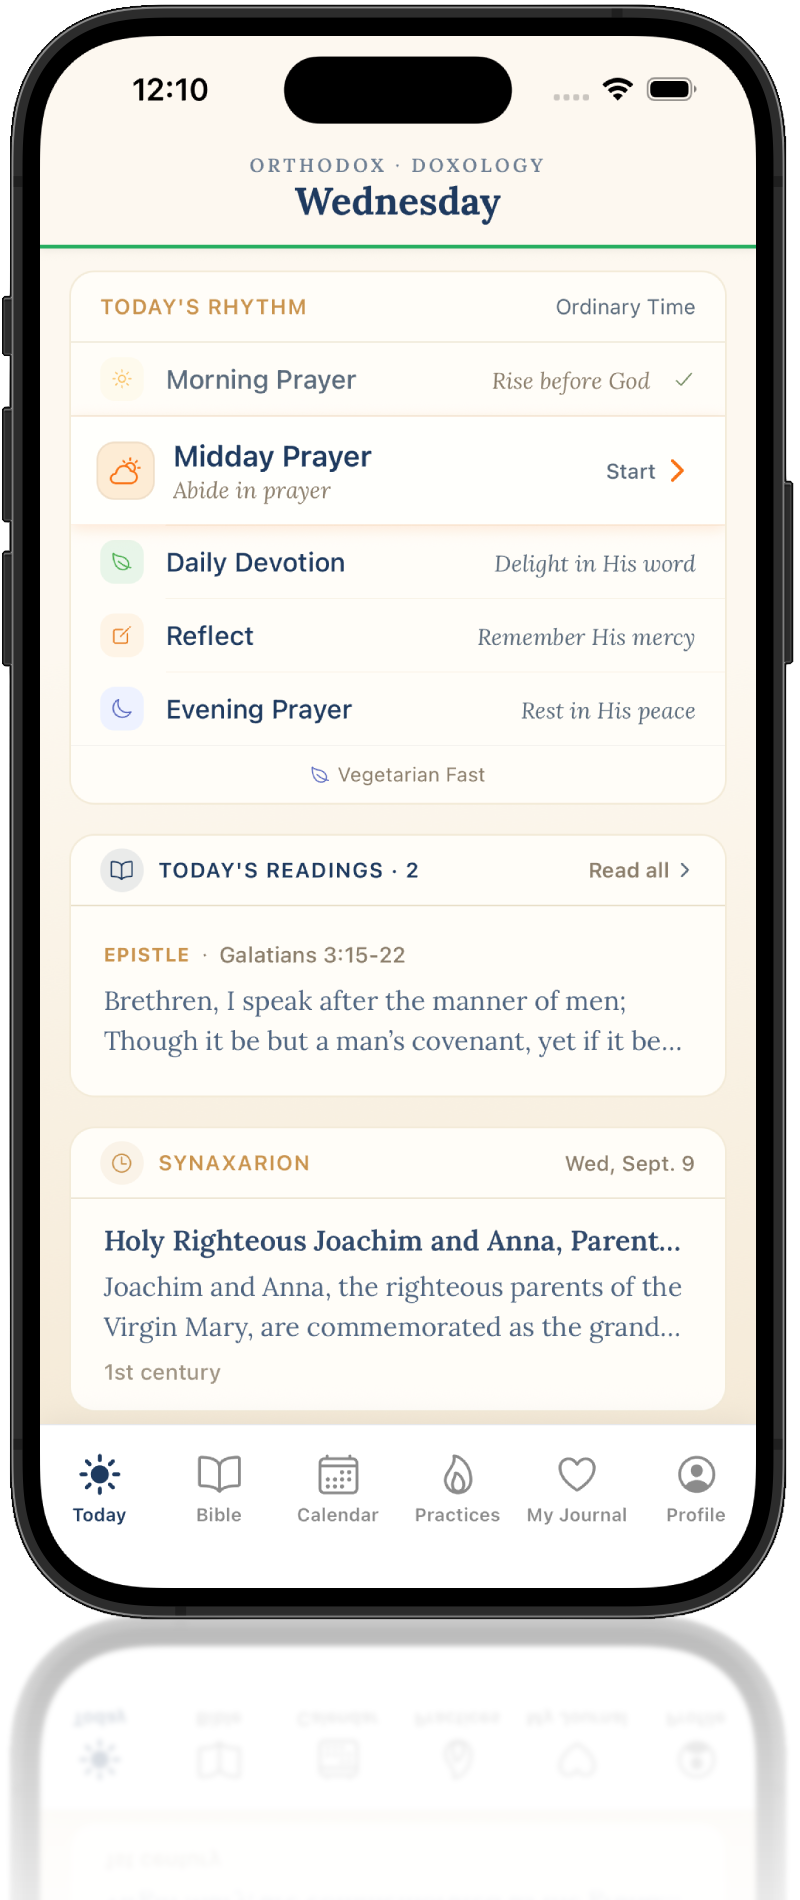
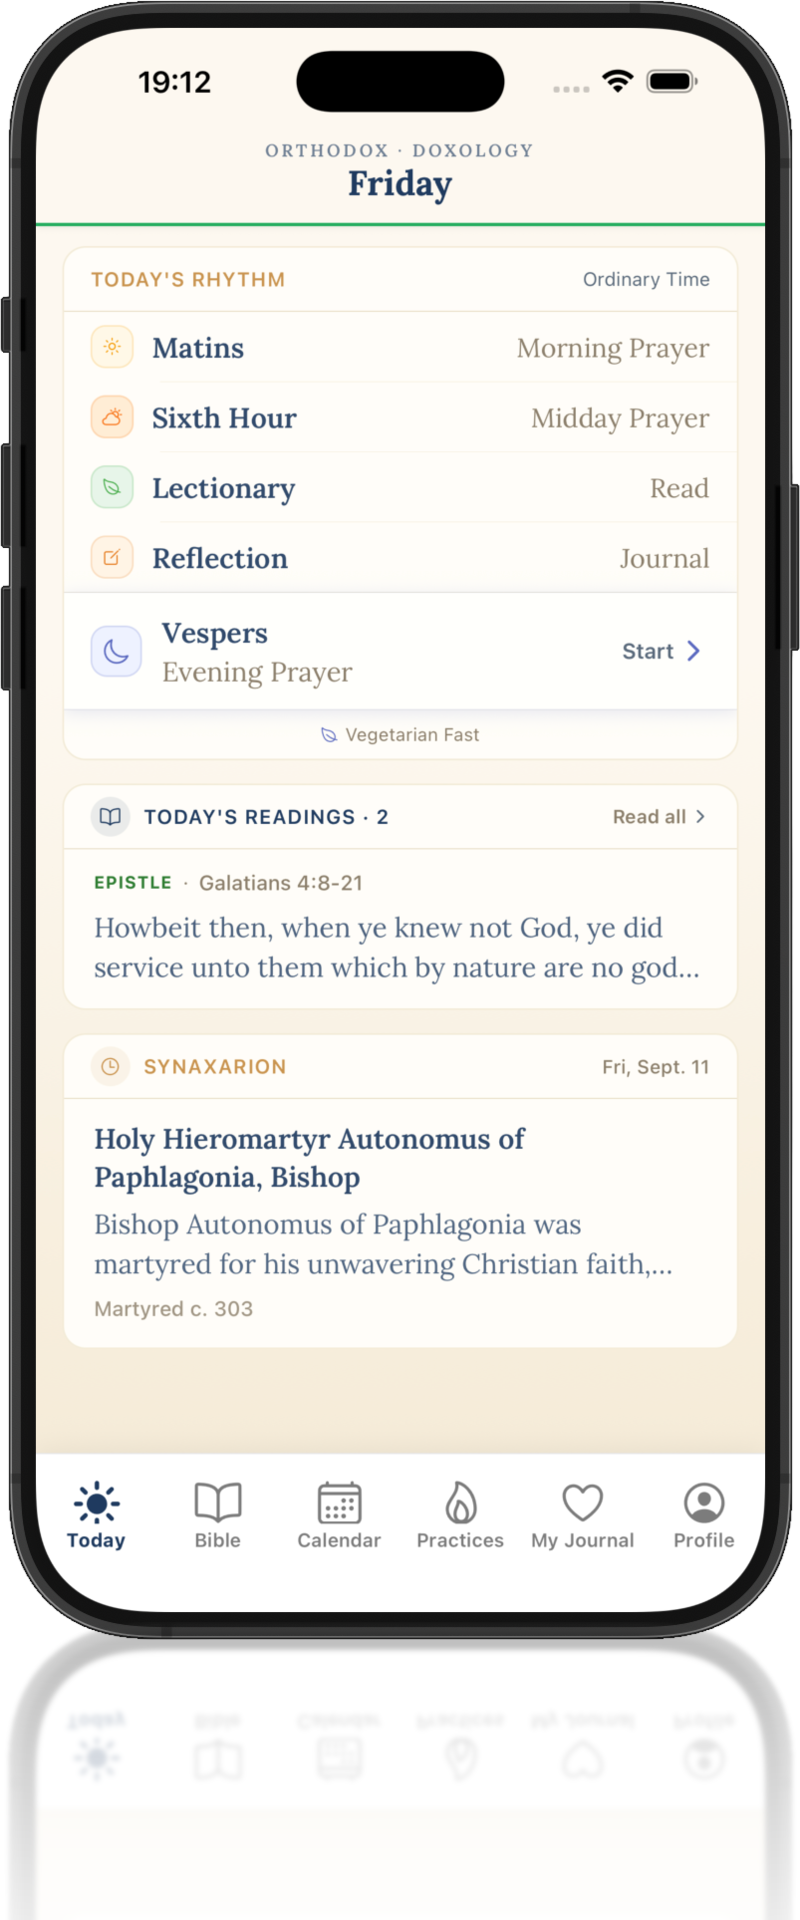
Update homepage phone mockup

Changed region(s): [[0.0, 0.0, 1.0, 0.9937], [0.5938, 0.2795, 0.7188, 0.3416], [0.6562, 0.3726, 0.6875, 0.4037]]

diff --git a/index.html b/index.html
@@ -5,7 +5,7 @@
     <meta name="viewport" content="width=device-width, initial-scale=1">
     <title>Doxology</title>
     <meta name="description" content="Doxology is a daily Christian prayer and scripture app built around morning, midday, and evening rhythms.">
-    <link rel="stylesheet" href="/styles.css?v=hero-reflection-layout">
+    <link rel="stylesheet" href="/styles.css?v=friday-phone-layout">
   </head>
   <body>
     <header class="site-header">
@@ -65,7 +65,7 @@
         </div>
         <div class="phone-showcase" aria-label="Doxology app screen preview">
           <div class="device-frame">
-            <img src="/assets/mockups/today-clean-screen-reflection.png?v=reflection" alt="Doxology Today screen showing Orthodox calendar content, daily rhythm, readings, and On This Day." />
+            <img src="/assets/mockups/today-clean-screen-reflection.png?v=friday-reflection" alt="Doxology Today screen showing Orthodox calendar content, daily rhythm, readings, and On This Day." />
           </div>
         </div>
       </section>

diff --git a/styles.css b/styles.css
@@ -137,7 +137,7 @@ li { font-size: 17px; }
 
 .device-frame {
   width: clamp(310px, 30vw, 390px);
-  aspect-ratio: 800 / 1900;
+  aspect-ratio: 800 / 1920;
   overflow: visible;
   border: 0;
   border-radius: 0;
